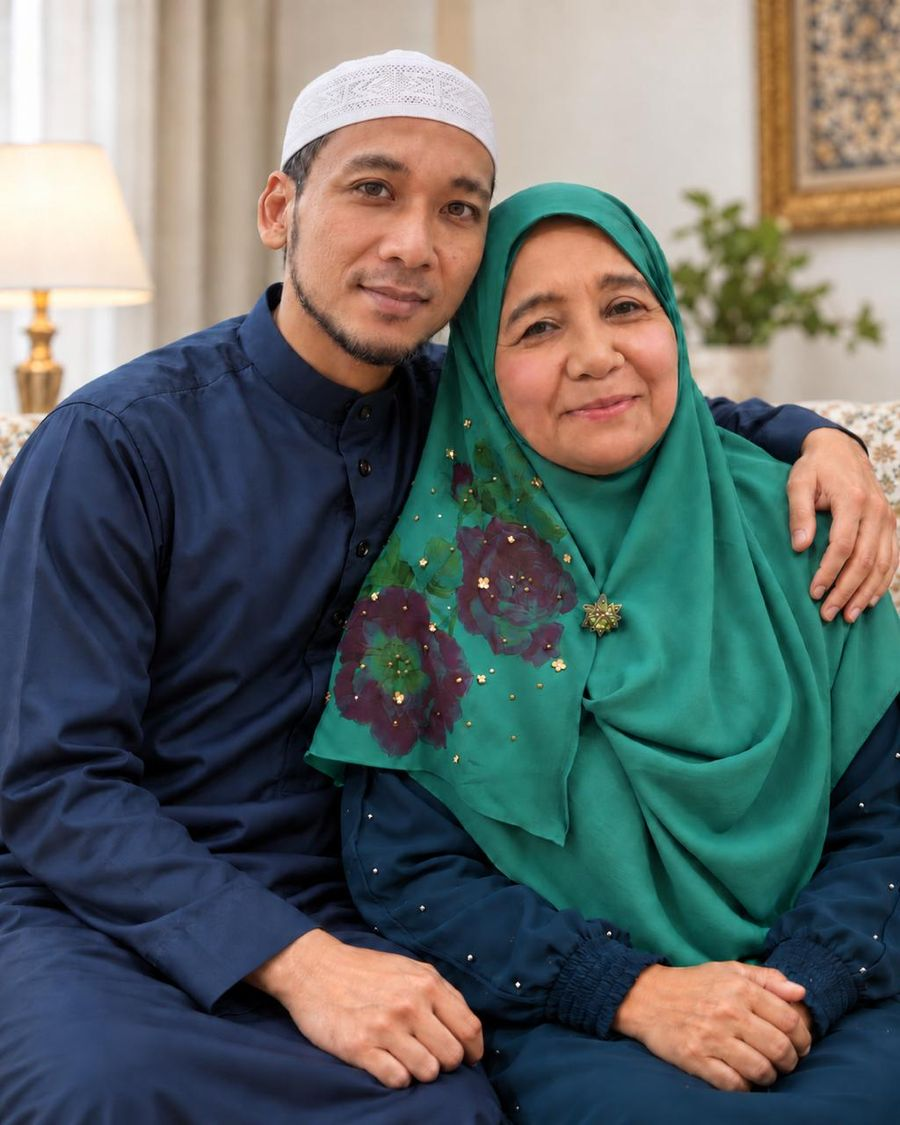
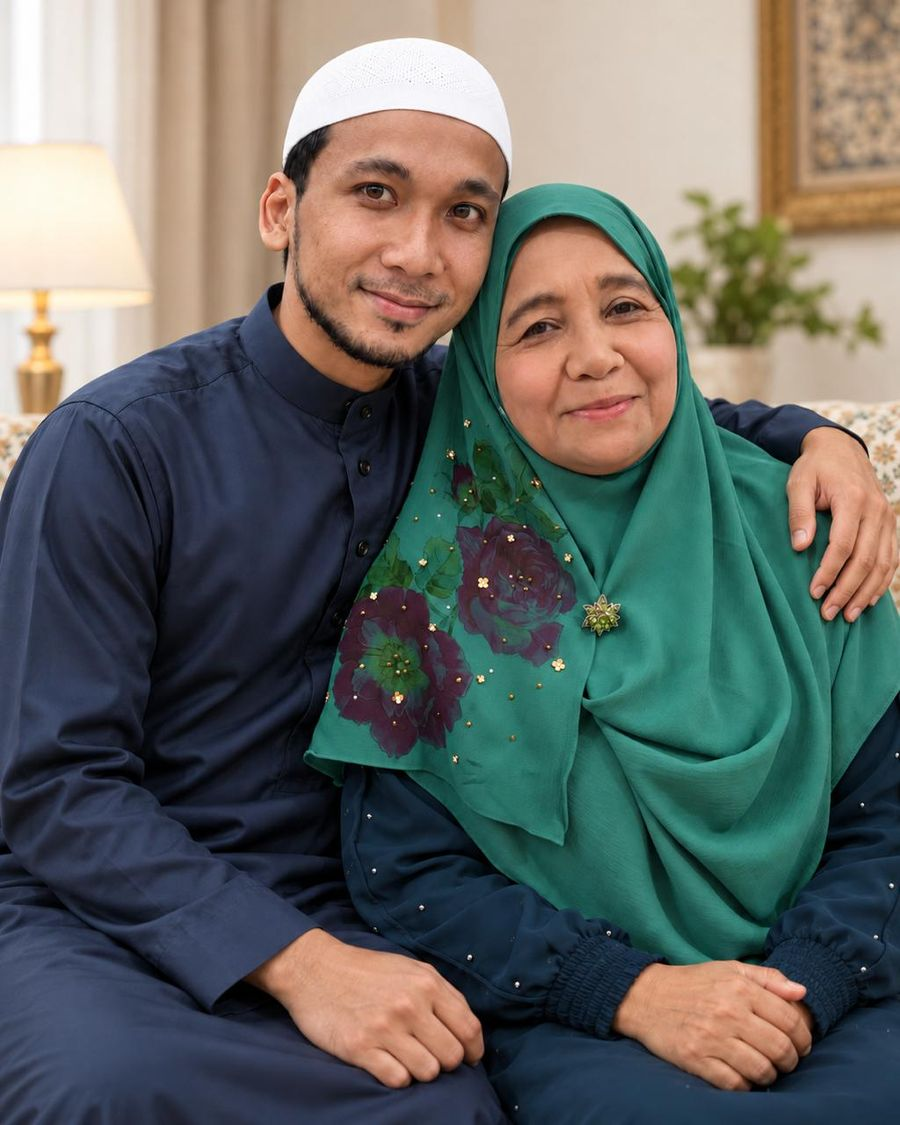
Foto emak: versi potret navy (Basri + Hajjah Rafeah), cache-bust v3

diff --git a/index.html b/index.html
@@ -180,8 +180,8 @@ footer .disklaim{font-size:12px;opacity:.6;line-height:1.6;border-top:1px solid 
     <p class="cerita-p">Itu bunyi yang saya kenal sejak kecil. Emak saya, <strong>Hajjah Rafeah</strong>, seorang bidan. Empat puluh tahun lebih dia sambut bayi, urus uri, sampai ke pagi.</p>
     <figure class="gambar">
       <picture>
-        <source srcset="assets/emak.webp" type="image/webp">
-        <img src="assets/emak.jpg" alt="Ustaz Basri bersama emaknya, Hajjah Rafeah, bidan lebih 40 tahun" width="900" height="1125" loading="lazy">
+        <source srcset="assets/emak.webp?v=3" type="image/webp">
+        <img src="assets/emak.jpg?v=3" alt="Ustaz Basri bersama emaknya, Hajjah Rafeah, bidan lebih 40 tahun" width="900" height="1125" loading="lazy">
       </picture>
       <figcaption>Emak saya, Hajjah Rafeah. Lebih empat puluh tahun sambut bayi. Dari dia saya belajar, ini bukan kerja, ini amanah.</figcaption>
     </figure>
